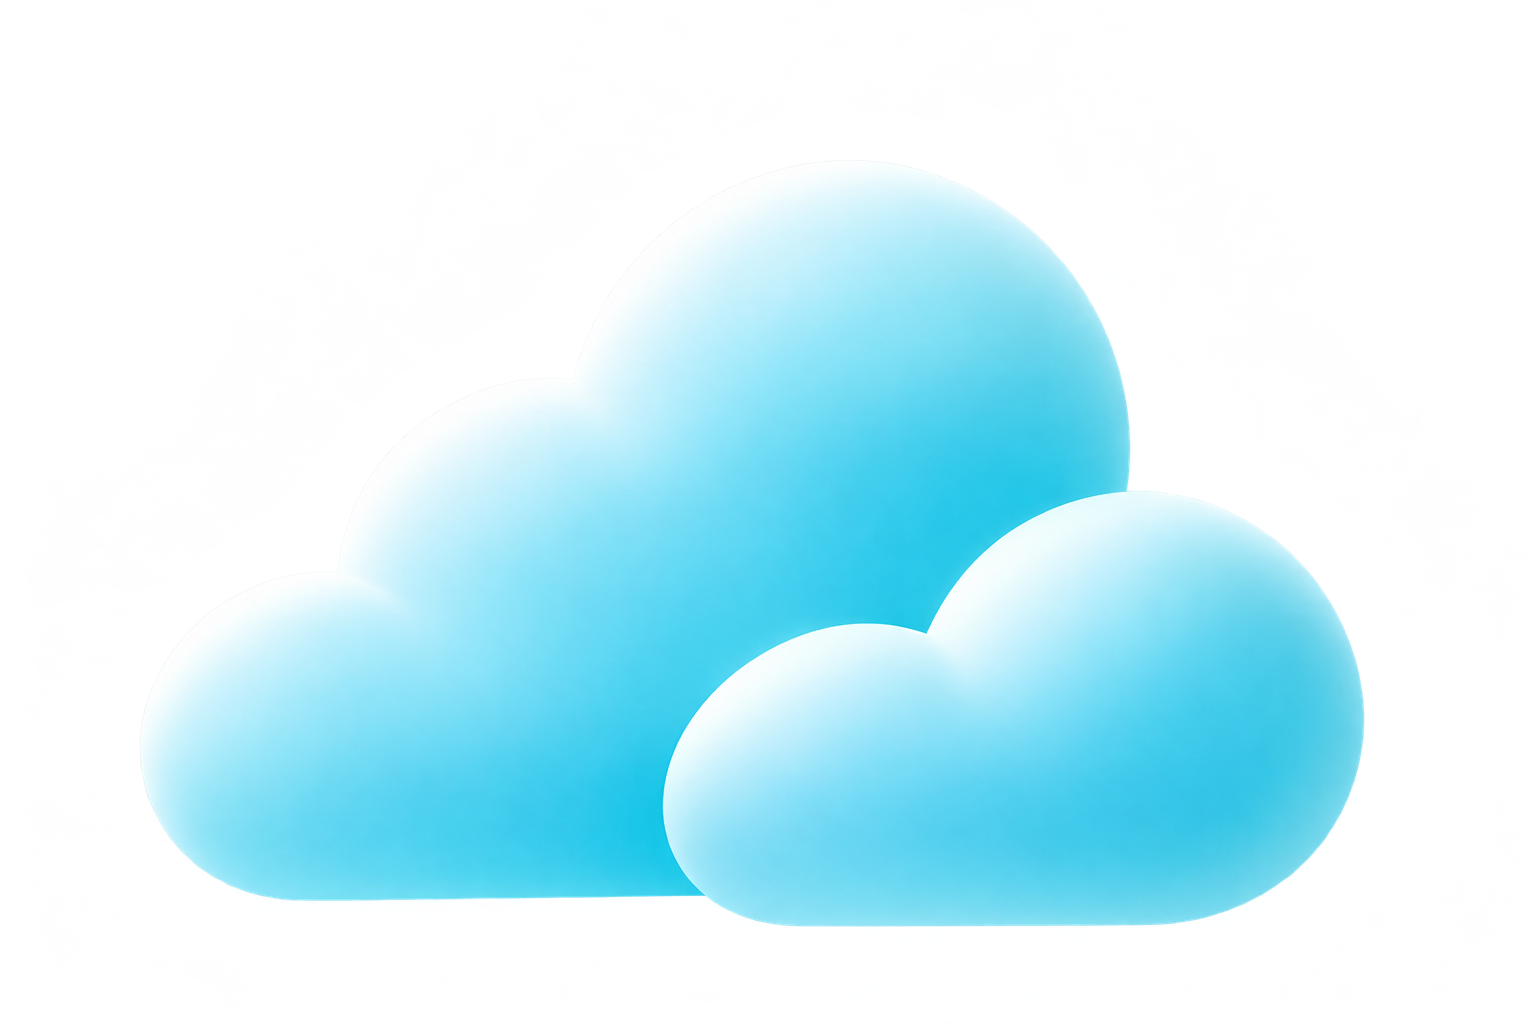
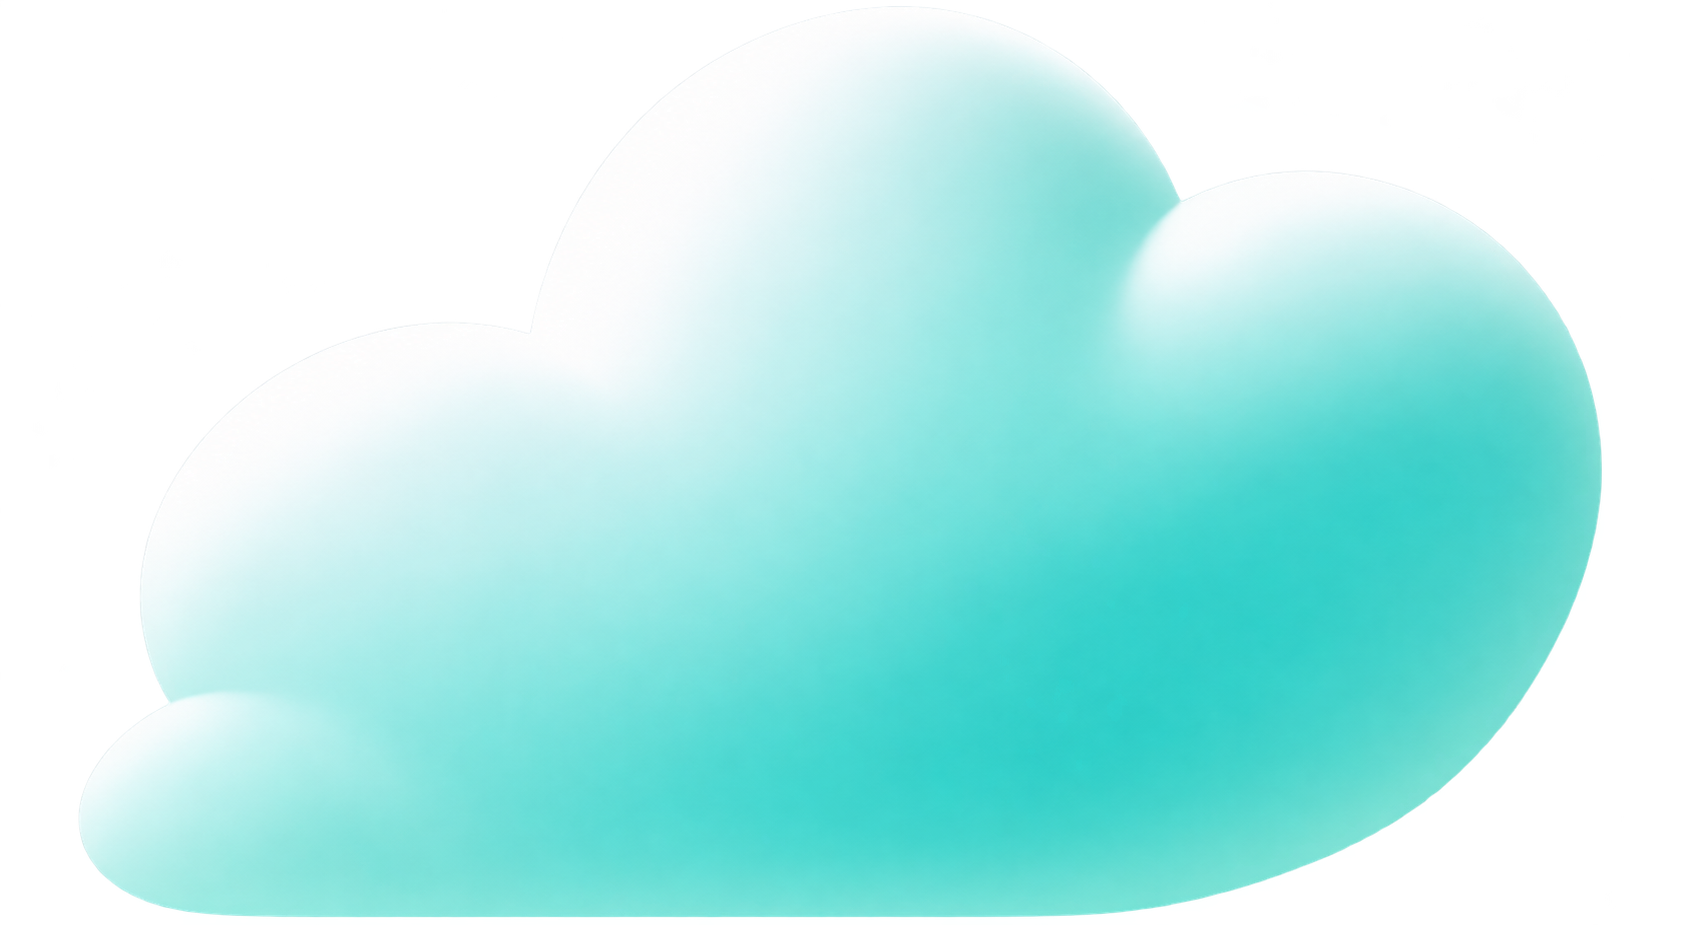
rerw

diff --git a/app/welcome/page.tsx b/app/welcome/page.tsx
@@ -1,160 +1,130 @@
 
 "use client";
 
-import Image from "next/image";
 import { useRouter } from "next/navigation";
+import { ArrowRight } from "lucide-react";
 import { motion, useReducedMotion } from "motion/react";
-import { ArrowRight, Sparkles } from "lucide-react";
+
+import CleanGoLogo from "@/components/branding/CleanGoLogo";
 
 export default function WelcomePage() {
   const router = useRouter();
   const reduceMotion = useReducedMotion();
 
-  const appear = (delay = 0) => ({
-    initial: {
-      opacity: 1,
-      y: reduceMotion ? 0 : 10,
-    },
-    animate: {
-      opacity: 1,
-      y: 0,
-    },
-    transition: {
-      duration: reduceMotion ? 0 : 0.45,
-      delay: reduceMotion ? 0 : delay,
-      ease: [0.22, 1, 0.36, 1] as const,
-    },
-  });
-
-  // Начать знакомство с CleanGo
   const handleStart = () => {
     router.push("/onboarding");
   };
 
-  // Пока выбор роли не сохраняется на backend,
-  // направляем пользователя на экран выбора роли.
   const handleLogin = () => {
     router.replace("/select-role");
   };
 
   return (
-    <main className="min-h-dvh bg-[#24B7EB] font-sans">
-      <section
-        className="
-          cleango-screen
-          relative isolate mx-auto flex
-          w-full max-w-[520px] flex-col
-          overflow-hidden
-          bg-linear-to-br
-          from-[#079DE8] via-[#27B8F1] to-[#7BDCF5]
-          px-5 text-white
-        "
-      >
-        {/* Мягкий свет */}
-        <div
-          aria-hidden="true"
-          className="
-            pointer-events-none absolute inset-0
-            bg-[radial-gradient(ellipse_at_75%_15%,rgba(255,255,255,0.18),transparent_55%)]
-          "
-        />
+    <main className="relative isolate min-h-[100dvh] overflow-hidden bg-[#B8F3E9] font-sans text-[#083D40]">
+      {/* Мятный фон */}
+      <div
+        aria-hidden="true"
+        className="pointer-events-none absolute inset-0 bg-[radial-gradient(ellipse_at_48%_25%,#F0FFFA_0%,#D6FAF2_35%,#A4ECE1_70%,#57D4C7_100%)]"
+      />
 
-        {/* Логотип и описание */}
-        <div
-          className="
-            relative z-10 flex min-h-0
-            flex-1 flex-col items-center
-            justify-center pb-24 text-center
-          "
-        >
-          <motion.div {...appear(0.05)}>
-            <Sparkles
-              className="mx-auto mb-7 h-14 w-14"
-              strokeWidth={1.8}
-            />
+      {/* Мягкое освещение */}
+      <div
+        aria-hidden="true"
+        className="pointer-events-none absolute -top-32 left-1/2 h-[450px] w-[450px] -translate-x-1/2 rounded-full bg-white/30 blur-[90px]"
+      />
 
-            <h1 className="text-[54px] font-bold tracking-[-0.06em]">
-              CleanGo
-            </h1>
-
-            <p className="mt-5 text-[18px] leading-7 text-white/95">
-              Профессиональная
-              <br />
-              уборка вашего дома
-            </p>
-          </motion.div>
-        </div>
-
-        {/* Облака */}
-        <div
-          aria-hidden="true"
-          className="
-            pointer-events-none absolute
-            bottom-[4%] left-[56%] z-0
-            w-[160%] -translate-x-1/2
-          "
-        >
-          <Image
-            src="/images/cleango/clouds.png"
-            alt=""
-            width={1536}
-            height={1024}
-            priority
-            sizes="(max-width: 640px) 160vw, 650px"
-            className="h-auto w-full"
-          />
-        </div>
-
-        {/* Нижние кнопки */}
+      {/* Основной контент */}
+      <div className="relative z-20 mx-auto flex min-h-[100dvh] w-full max-w-[520px] flex-col px-6">
+        {/* Логотип */}
         <motion.div
-          {...appear(0.12)}
-          className="
-            relative z-20 mt-auto
-            shrink-0 space-y-4
-            pb-[max(56px,calc(env(safe-area-inset-bottom)+32px))]
-          "
+          initial={{
+            opacity: 0,
+            y: reduceMotion ? 0 : 20,
+          }}
+          animate={{
+            opacity: 1,
+            y: 0,
+          }}
+          transition={{ duration: 0.65 }}
+          className="flex flex-col items-center pt-[clamp(65px,13dvh,135px)] text-center"
         >
-          {/* Начать */}
+          <CleanGoLogo
+            size={118}
+            priority
+            className="justify-center"
+          />
+
+          <h1 className="mt-4 text-[clamp(43px,12vw,60px)] font-extrabold leading-none tracking-[-0.065em] text-[#07474A]">
+            Clean<span className="text-[#00AFA6]">Go</span>
+          </h1>
+
+          <p className="mt-7 max-w-[310px] text-[clamp(17px,4.7vw,21px)] font-medium leading-[1.45] text-[#315B60]">
+            Профессиональная уборка
+            <br />
+            вашего дома
+          </p>
+        </motion.div>
+
+        <div className="flex-1" />
+
+        {/* Кнопки */}
+        <motion.div
+          initial={{
+            opacity: 0,
+            y: reduceMotion ? 0 : 18,
+          }}
+          animate={{
+            opacity: 1,
+            y: 0,
+          }}
+          transition={{
+            duration: 0.6,
+            delay: 0.2,
+          }}
+          className="relative z-30 pb-[max(42px,calc(env(safe-area-inset-bottom)+28px))]"
+        >
           <button
             type="button"
             onClick={handleStart}
-            className="
-              relative z-30
-              flex h-[60px] w-full
-              cursor-pointer
-              items-center justify-center
-              rounded-full bg-white px-6
-              text-[17px] font-semibold
-              text-[#102033]
-              shadow-[0_12px_35px_rgba(0,55,95,0.16)]
-              transition-transform
-              active:scale-[0.98]
-              touch-manipulation
-            "
+            className="relative flex h-[68px] w-full items-center justify-center rounded-full bg-white px-7 text-[20px] font-bold text-[#073D40] shadow-[0_18px_45px_rgba(0,111,108,0.18)] transition-transform active:scale-[0.98]"
           >
-            <span className="flex-1 text-center">
-              Начать
-            </span>
-
-            <ArrowRight className="h-6 w-6" />
+            Начать
+            <ArrowRight className="absolute right-7 h-6 w-6" />
           </button>
 
-          {/* Уже есть аккаунт */}
           <button
             type="button"
             onClick={handleLogin}
-            className="
-              relative z-30
-              block w-full cursor-pointer
-              text-center text-sm font-medium
-              text-white/90
-              touch-manipulation
-            "
+            className="mt-7 block w-full text-center text-[15px] font-medium text-[#2B7775]"
           >
             У меня уже есть аккаунт
           </button>
         </motion.div>
-      </section>
+      </div>
+
+      {/* Объёмные облака */}
+      <div
+        aria-hidden="true"
+        className="pointer-events-none absolute inset-x-0 bottom-[12%] z-10 h-[45%]"
+      >
+        {/* Центральное облако */}
+        <div
+          className="absolute bottom-[5%] left-[28%] h-[95%] w-[55%] rounded-[50%] bg-[radial-gradient(ellipse_at_28%_23%,#FFFFFF_0%,#E7FFFA_24%,#B1F2E9_57%,#44CFC1_100%)] shadow-[inset_-22px_-25px_45px_rgba(0,156,148,0.12),-15px_-10px_45px_rgba(255,255,255,0.45)]"
+        />
+
+        {/* Левое облако */}
+        <div
+          className="absolute bottom-[-5%] left-[-18%] h-[75%] w-[76%] rounded-[50%] bg-[radial-gradient(ellipse_at_30%_22%,#FFFFFF_0%,#E9FFFB_28%,#B2F0E8_63%,#49CEC2_100%)] shadow-[inset_-20px_-25px_40px_rgba(0,155,149,0.12)]"
+        />
+
+        {/* Правое облако */}
+        <div
+          className="absolute bottom-[-8%] right-[-23%] h-[84%] w-[77%] rounded-[50%] bg-[radial-gradient(ellipse_at_30%_20%,#FFFFFF_0%,#D9FAF3_31%,#91E7DB_64%,#26BDAF_100%)] shadow-[inset_-25px_-30px_45px_rgba(0,132,125,0.13)]"
+        />
+
+        {/* Нижняя часть облаков */}
+        <div className="absolute inset-x-0 bottom-[-35%] h-[52%] bg-gradient-to-b from-[#6EDDD1] to-[#45CBBF]" />
+      </div>
     </main>
   );
 }
